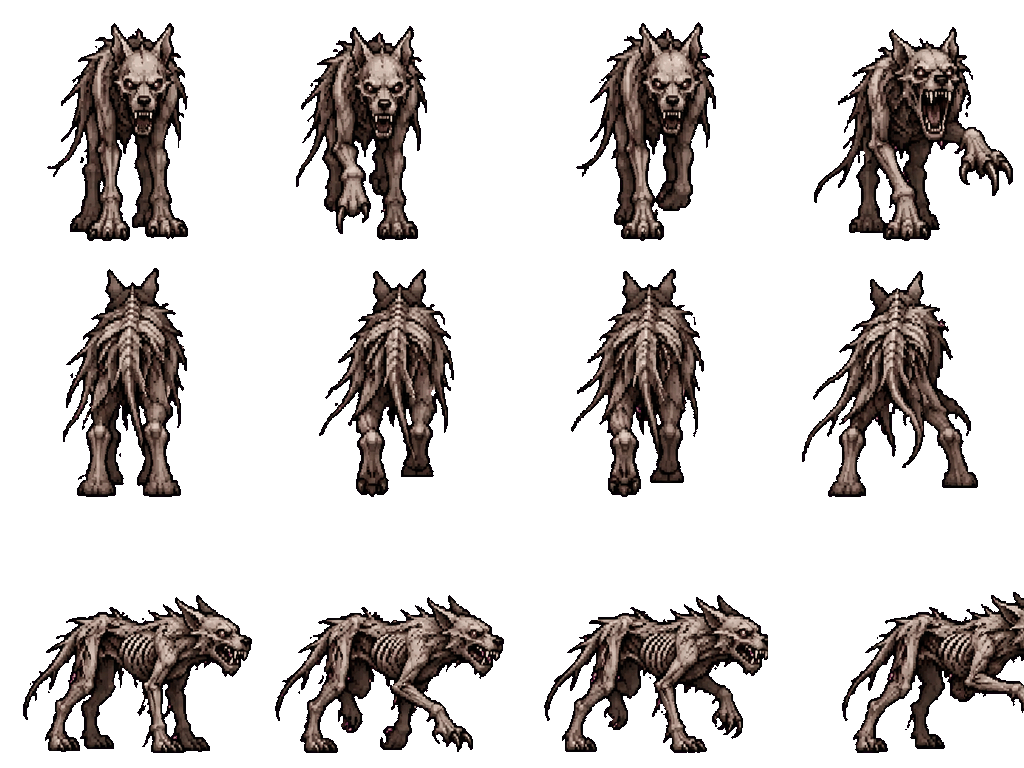
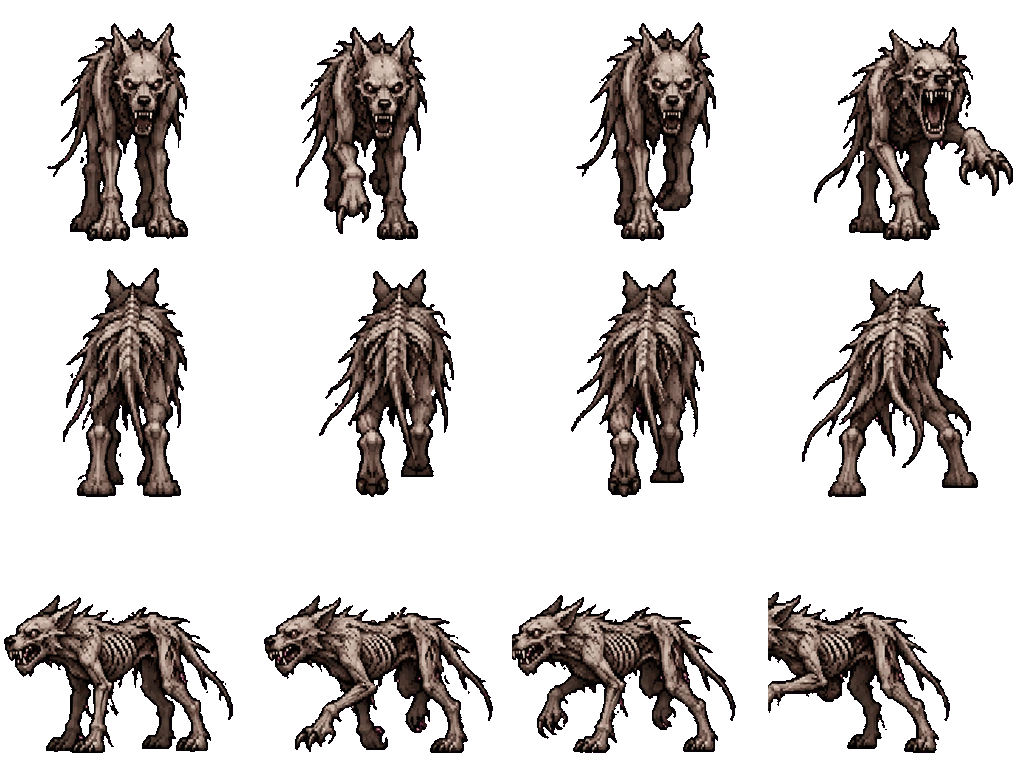
Personajes custom (6 hombres, 6 mujeres) con color de piel, pelo, ropa y pantalón; los de clase fija quedan para ORK; quien ya tenía personaje lo conserva. Hojas nuevas de personajes de mapa y monstruos, sabueso corregido. Contagio: un toque, 2 minutos, al final mitad de vida y muerte; nanocura cura
Claude-Session: https://claude.ai/code/session_01VGCmBo3CsU2Xq1dNwQVK9W

Changed region(s): [[0.0, 0.75, 1.0, 1.0]]

diff --git a/www/cenizas.js b/www/cenizas.js
@@ -105,6 +105,7 @@
   function charSprite(lk, dir, frame, atk) {
     if (HD && lk) { let s = null;
       if (lk.npc) s = HD.sheet(HD.NPC_SHEET[lk.npc] || lk.npc, dir, frame, atk);
+      else if (lk.cu && HD.custom) s = HD.custom(lk, dir, frame, atk);
       else if (lk.pj) s = HD.sheet(lk.pj, dir, frame, atk);
       else if (lk.body != null) s = HD.base(lk.body === 1, lk.model || 0, baseColors(lk), dir, frame, atk);
       if (s) return s; }
@@ -261,8 +262,8 @@
     lanzallamas: { n: 'Lanzallamas', t: 'Arma de fuego · muy rara', d: 'Escupe fuego de cerca: quema todo lo que tenga adelante. 30 segundos de fuego.', eq: 'arma', uses: 250 },
     metralleta: { n: 'Metralleta', t: 'Arma de fuego · rara', d: 'Ráfaga rápida a distancia. 60 tiros.', eq: 'arma', uses: 60 },
     trampa: { n: 'Trampa', t: 'Objeto · se coloca', d: 'La dejás en el piso. El otro bando no la ve (sólo una marquita). Al pisarla queda frenado y lastimado; a los Oscuros los aturde. Dura 4 minutos.', use: 'trampa' },
-    jeringa: { n: 'Jeringa de nanocura', t: 'Consumible · contagio', d: 'Baja el contagio de los Oscuros a la mitad (-50) y lo frena 45 segundos.', use: 'jeringa', v: 50, imm: 45 },
-    jeringa_max: { n: 'Jeringa de nanomoléculas', t: 'Consumible · contagio · rara', d: 'Te limpia el contagio por completo, te devuelve 30 de vida y no te contagiás por 2 minutos.', use: 'jeringa', v: 100, imm: 120, hp: 30 },
+    jeringa: { n: 'Jeringa de nanocura', t: 'Consumible · contagio', d: 'Te cura el contagio de los Oscuros por completo. Se vende en la tienda de Rosa (Plaza de Mayo).', use: 'jeringa', v: 100, imm: 8 },
+    jeringa_max: { n: 'Jeringa de nanomoléculas', t: 'Consumible · contagio · rara', d: 'Te cura el contagio por completo, te devuelve 30 de vida y no te contagiás por 2 minutos.', use: 'jeringa', v: 100, imm: 120, hp: 30 },
     antiveneno: { n: 'Antiveneno', t: 'Consumible', d: 'Cura el envenenamiento (insectos y babosas te envenenan).', use: 'antiveneno' },
     venda_q: { n: 'Venda para quemaduras', t: 'Consumible', d: 'Cura el estado QUEMADO (el Incinerario te prende fuego) y te da 15 de vida.', use: 'vendaq' },
     brz_jefe: { n: 'Brazalete de Yuki', t: 'Brazalete · único · PvP', d: 'Lo deja Yuki cuando la derrotás. Al activarlo tenés poder de jefe por 60 segundos: el doble de vida, recibís la mitad de daño y pegás 60% más.', use: 'jefe' },
@@ -597,11 +598,13 @@
     const cre = $('#cre'); cre.hidden = false; let rot = 0; const dirs = ['d', 'l', 'u', 'r'];
     if (me.faction === 'ork' && look.cls == null) look.cls = 0;
     const box = $('#opts');
+    const orig = Object.assign({}, look);
     function rows() { box.querySelectorAll('.opt,.perk').forEach(e => e.remove());
-      const ork = me.faction === 'ork', list = HD ? HD.roster(look.body === 1, ork) : [];
-      if (HD) { let ix = HD.rosterIdx(list, look); if (look.pj && !list.some(r => r.k === look.pj)) ix = 0; HD.pickPj(look, list[ix]); look.pjI = ix; }
-      const cur = HD ? list[look.pjI] : null, fixed = cur && cur.cls != null;
+      const ork = me.faction === 'ork', list = HD ? HD.roster(look.body === 1, ork, orig) : [];
+      if (HD) { const ix = HD.rosterIdx(list, look); HD.pickPj(look, list[ix]); look.pjI = ix; }
+      const cur = HD ? list[look.pjI] : null, fixed = cur && cur.cls != null, P_ = HD && HD.CPAL, nm = a => a.map(x => x[0]);
       const opts = [['CUERPO', 'body', () => BODY], ['PERSONAJE', 'pjI', () => list.map(r => r.nm)]];
+      if (look.cu && P_) opts.push(['PIEL', 'cs', () => nm(P_.piel)], ['PELO', 'ch', () => nm(P_.pelo)], ['ROPA', 'ct', () => nm(P_.ropa)], ['PANTALÓN', 'cp', () => nm(P_.pant)]);
       if (ork) opts.push(['CLASE', 'cls', () => OCLS, fixed]);
       if (mySkins.length) opts.unshift(['ESPECIAL', 'npcI', () => ['Ninguno'].concat(mySkins.map(k => skinName(k)))]);
       look.npcI = look.npc ? mySkins.indexOf(look.npc) + 1 : 0;
@@ -609,10 +612,11 @@
       opts.forEach(([lab, k, lf, lock]) => { const L = lf(); const r = document.createElement('div'); r.className = 'opt';
         r.innerHTML = '<span>' + lab + '</span><button aria-label="anterior">‹</button><b></b><button aria-label="siguiente">›</button>';
         const bb = r.querySelector('b'); bb.textContent = L[look[k] || 0] || L[0];
+        if (P_ && ['cs', 'ch', 'ct', 'cp'].includes(k)) { const pal = { cs: P_.piel, ch: P_.pelo, ct: P_.ropa, cp: P_.pant }[k]; bb.style.borderLeft = '14px solid ' + (pal[look[k] || 0] || pal[0])[1]; bb.style.paddingLeft = '6px'; }
         if (lock) { r.children[1].disabled = r.children[3].disabled = true; r.classList.add('lock'); bb.textContent += ' · fija'; }
         const ch_ = dv => { look[k] = ((look[k] || 0) + dv + L.length) % L.length;
           if (k === 'npcI') { if (look.npcI) look.npc = mySkins[look.npcI - 1]; else delete look.npc; }
-          if (k === 'body') { delete look.pj; delete look.model; }
+          if (k === 'body') { delete look.pj; delete look.model; delete look.cu; }
           if (k === 'pjI') { HD.pickPj(look, list[look.pjI]); if (list[look.pjI].cls == null && cur && cur.cls != null) look.cls = 0; }
           rows(); draw(); };
         r.children[1].onclick = () => ch_(-1); r.children[3].onclick = () => ch_(1); box.insertBefore(r, first); });
@@ -714,7 +718,7 @@
   function drawAv() { const cv = $('#h-av'); if (!cv || !look) return; const g = cv.getContext('2d'); g.clearRect(0, 0, 96, 128); let spr = null; try { spr = charSprite(look, 'd', 0, false); } catch (e) {} if (!spr) return; if (spr.hd) { g.imageSmoothingEnabled = true; g.drawImage(spr, 58, 22, 140, 186, 0, 0, 96, 128); } else { g.imageSmoothingEnabled = false; g.drawImage(spr, 0, 0, spr.width, spr.height * .7, 6, 6, 84, 116 * .9); } drawAv.ok = spr.hd ? 2 : 1; drawAv.key = JSON.stringify(look); }
   setInterval(() => { if (look && ((drawAv.ok || 0) < 2 || drawAv.key !== JSON.stringify(look))) drawAv(); }, 600); /* el retrato espera a que cargue la planilla */
   function hudCont() { const cb = $('#h-cb'); if (!cb || !INV) return; const v = Math.round(INV.cont || 0), im = (P.inmune || 0) > 0; $('#h-ct').style.width = (v * .678) + '%';
-    const tx = im ? 'INMUNE ' + Math.ceil(P.inmune) + 's' : v ? 'CONTAGIO ' + v + '%' : ''; if ($('#h-ctn').textContent !== tx) $('#h-ctn').textContent = tx;
+    const left = Math.max(0, Math.ceil(120 * (1 - (INV.cont || 0) / 100))), tx = im ? 'INMUNE ' + Math.ceil(P.inmune) + 's' : v ? (P.contFin > 0 ? '☣ TE ESTÁS CONVIRTIENDO' : '☣ CONTAGIADO ' + ((left / 60) | 0) + ':' + String(left % 60).padStart(2, '0')) : ''; if ($('#h-ctn').textContent !== tx) $('#h-ctn').textContent = tx;
     cb.classList.toggle('on', v > 0 || im); cb.classList.toggle('grave', v >= 70); cb.classList.toggle('inm', im); }
   function hud() { hudCont(); if ((drawAv.ok || 0) < 2 && (drawAv.n = (drawAv.n || 0) + 1) < 60 && drawAv.n % 6 === 0) drawAv(); { const nk = $('#h-nick'), t_ = me.nick + '|' + lvlOf(P.xp); if (nk && nk.dataset.v !== t_) { nk.dataset.v = t_; nk.textContent = me.nick; const e_ = document.createElement('em'); e_.textContent = 'NV ' + lvlOf(P.xp); nk.appendChild(e_); } } const lv = lvlOf(P.xp), a = xpFor(lv), b = xpFor(lv + 1); $('#h-hp').style.width = Math.max(0, P.hp / maxHp(lv) * 100) + '%'; $('#h-xp').style.width = (lv >= 100 ? 100 : Math.min(100, (P.xp - a) / (b - a) * 100)) + '%';
     $('#h-lv').textContent = 'NV ' + lv + ' · ' + (INV ? weaponLabel() : 'PALO') + ' · ' + Math.ceil(P.hp) + '/' + maxHp(lv) + (INV && INV.eq.luz ? ' · LUZ ' + Math.ceil(INV.bat) + '%' : '') + (INV && INV.eq.ropa ? ' · ESCUDO ' + (INV.dur[INV.eq.ropa] != null ? INV.dur[INV.eq.ropa] : ITEMS[INV.eq.ropa].shield) : '') + ' · ' + (INV ? INV.coins : 0) + ' monedas' + (INV && INV.ab.length ? ' · ' + INV.ab.map(a => AB[a].n).join(' · ') : '') + (suero.map ? ' · MALETÍN: ' + MAPS[suero.map].name : ''); }
@@ -768,16 +772,19 @@
   function classMult(mk) { if (!mk || me.faction !== 'ork') return 1; let m = .85; const c = (look && look.cls) || 0;
     if ((c === 0 && mk === 'perro') || (c === 1 && mk === 'corredor') || (c === 2 && mk === 'errante')) m *= .6; return m; }
   /* ---------- contagio de los Oscuros: barra 0-100. +30 pierde vida, +70 más rápido. Al morir contagiado queda tu clon Oscuro ---------- */
-  const CONT_MIN = 30;
-  function contagiar(d, fuerte, x) { if ((P.inmune || 0) > 0 || P.dead) return; const was = INV.cont || 0; INV.cont = Math.min(100, was + Math.min(14, 3 + d * .35) * (fuerte ? 1.5 : 1) * (x || 1));
-    if (was < CONT_MIN && INV.cont >= CONT_MIN) toast('☣ Te estás contagiando: perdés vida de a poco. Usá una jeringa.'); else if (was < 70 && INV.cont >= 70) toast('☣ Contagio grave: te estás convirtiendo en Oscuro.'); hud(); }
-  function contTick(dt) { if (P.dead || !INV) return; if (P.inmune > 0) P.inmune -= dt; const cv = INV.cont || 0; if (cv <= 0) return; if (inSafe(P.x, P.y)) return; /* en zona segura el contagio se frena (no baja) */
-    if (cv >= CONT_MIN && !(P.inmune > 0)) INV.cont = Math.min(100, cv + dt * .6); /* sin cura, sube solo hasta 100 */
-    if (cv < CONT_MIN || P.inmune > 0) return; P.contT = (P.contT || 0) + dt; if (cv >= 70) P.slow = Math.max(P.slow || 0, .5);
-    /* contagiado: sin cura te mata en ~2 minutos (le saca 1/120 de la vida máxima por segundo) */
-    if (P.contT >= 1) { P.contT = 0; const dd = Math.max(1, Math.round(maxHp(lvlOf(P.xp)) / 120)); P.hp -= dd; floats.push({ x: P.x, y: P.y - 200, t: .7, txt: '☣ -' + dd, c: '#c070ff' });
-      if (Math.random() < .5) parts.push({ x: P.x + rnd(-16, 16), y: P.y - rnd(40, 160), vx: 0, vy: -26, life: .8, s: 3, c: 270 }); hud(); if (P.hp <= 0) { P.hp = 1; hitPlayer(999, null, 0, null, 'contagio'); } } }
-  function dejarClon() { const lk = {}; ['pj', 'npc', 'body', 'model', 'cls'].forEach(k => { if (look && look[k] != null) lk[k] = look[k]; });
+  /* contagio: un toque de un Oscuro y quedás contagiado (INV.cont = % de los 2 minutos que pasaron). Más golpes no lo aceleran.
+     A los 2 minutos sin jeringa: si tenés más de la mitad de la vida te baja a la mitad y a los segundos morís; si ya tenías la mitad o menos, morís en el acto. */
+  const CONT_MIN = 0.01, CONT_SEG = 120, CONT_FIN = 4;
+  function contagiar(fuerte) { if ((P.inmune || 0) > 0 || P.dead || (INV.cont || 0) > 0) return; INV.cont = fuerte ? 50 : 0.5; P.contFin = 0; toast(fuerte ? '☣ Te contagió un Contagiado: tenés 1 minuto para usar una jeringa.' : '☣ Te contagiaste. Tenés 2 minutos para usar una jeringa.'); buzz([60, 40, 60]); hud(); }
+  function contTick(dt) { if (P.dead || !INV) return; if (P.inmune > 0) P.inmune -= dt; const cv = INV.cont || 0; if (cv <= 0) return;
+    if (inSafe(P.x, P.y) && !(P.contFin > 0)) return; /* en zona segura la cuenta se frena */
+    if (P.contFin > 0) { P.contFin -= dt; if (Math.random() < dt * 6) parts.push({ x: P.x + rnd(-16, 16), y: P.y - rnd(40, 160), vx: 0, vy: -26, life: .8, s: 3, c: 270 }); if (P.contFin <= 0) { P.hp = 1; hitPlayer(999, null, 0, null, 'contagio'); } return; }
+    const was = cv; INV.cont = Math.min(100, cv + dt * 100 / CONT_SEG);
+    if (was < 50 && INV.cont >= 50) toast('☣ Te queda 1 minuto de contagio.'); else if (was < 84 && INV.cont >= 84) toast('☣ ¡20 segundos! Usá una jeringa.');
+    if (INV.cont >= 100) { const mx = maxHp(lvlOf(P.xp)); P.slow = Math.max(P.slow || 0, 1);
+      if (P.hp > mx / 2) { P.hp = Math.floor(mx / 2); P.contFin = CONT_FIN; floats.push({ x: P.x, y: P.y - 200, t: 1.2, txt: '☣ EL CONTAGIO TE CONSUME', c: '#c070ff' }); buzz([200, 80, 200]); hud(); }
+      else { P.hp = 1; hitPlayer(999, null, 0, null, 'contagio'); } } }
+  function dejarClon() { const lk = {}; ['pj', 'npc', 'body', 'model', 'cls', 'cu', 'cs', 'ch', 'ct', 'cp', 'skin', 'hair', 'hcol', 'top', 'pant', 'fac'].forEach(k => { if (look && look[k] != null) lk[k] = look[k]; });
     /* el clon se lleva una cosa de tu mochila (no lo equipado) y la suelta si lo matan */
     const bag = Object.keys(INV.items || {}).filter(k => INV.items[k] > 0 && ITEMS[k] && !ITEMS[k].epic && k !== 'suero' && !Object.values(INV.eq).includes(k)); let drop = null;
     if (bag.length) { drop = bag[(Math.random() * bag.length) | 0]; INV.items[drop]--; if (!INV.items[drop]) delete INV.items[drop]; }
@@ -785,7 +792,7 @@
   function spawnClon(p) { const o = spawnMob('clon', 0, [p.x, p.y]); if (!o) return; o.cl = p.cl; o.cn = p.cn; o.drop = p.drop; o.alpha = 1; needFull = true; }
   function hitPlayer(d, knockFrom, knock, byId, mk) { if (P.dead || P.inv > 0 || P.furia > 0 || (!byId && inSafe(P.x, P.y))) return false;
     if (!byId && mk && d < 999 && MOB[mk]) { if (MOB[mk].burn && !(P.burn > 0)) { P.burn = 5; toast('¡Te prendiste fuego! 5 segundos de quemadura (la venda para quemaduras lo corta).'); } if (MOB[mk].poison && !(P.poison > 0)) { P.poison = 25; toast('Te envenenaron. Usá antiveneno.'); } }
-    if (!byId && mk && d < 999 && MOB[mk] && !MOB[mk].passive && !MOB[mk].npc) contagiar(d, MOB[mk].boss || MOB[mk].mvp, MOB[mk].cont);
+    if (!byId && mk && d < 999 && MOB[mk] && !MOB[mk].passive && !MOB[mk].npc) contagiar(MOB[mk].cont);
     if (P.goo > 0) d *= 2; if (P.stunT > 0 && mk && MOB[mk] && MOB[mk].mvp) d *= 2.5;
     if (mk && MOB[mk] && MOB[mk].pois5 && d < 999) { P.poison = Math.max(P.poison || 0, 5); P.poisonK = MOB[mk].pois5; }
     d = Math.max(1, Math.round(d * dmgMult() * classMult(mk || (knockFrom && knockFrom.kind) || (byId ? null : 'oscuro'))));
@@ -864,8 +871,8 @@
     if (a === 'use' && it.use === 'descuento') { INV.items[k]--; if (!INV.items[k]) delete INV.items[k]; INV.descT = Date.now() + 600000; toast('Credencial mostrada: 10 minutos con 30% de descuento en las tiendas.'); renderInv(); persist(); return; }
     if (a === 'use' && it.use === 'volver') { INV.items[k]--; if (!INV.items[k]) delete INV.items[k]; closeInv(); const [hz, hp_] = home(); toast('El fragmento se parte. Todo se dobla…'); warpTo(hz, hp_[0], hp_[1]); persist(); return; }
     if (a === 'use' && it.use === 'trampa') { if (EXP && MAP.safeAll || inSafe(P.x, P.y)) return toast('Acá no se pueden poner trampas.'); INV.items[k]--; if (!INV.items[k]) delete INV.items[k]; const tp = { m: mapKey, id: me.id.slice(0, 4) + Date.now().toString(36), x: Math.round(P.x), y: Math.round(P.y), fac: me.faction, by: me.id, t: Date.now() }; ptraps.push(tp); net('trap', tp); SND.pick(); toast('Trampa puesta. El otro bando sólo ve una marquita.'); closeInv(); persist(); return; }
-    if (a === 'use' && it.use === 'jeringa') { if (!(INV.cont > 0) && !it.hp) return toast('No estás contagiado. Guardala.'); INV.items[k]--; if (!INV.items[k]) delete INV.items[k]; INV.cont = Math.max(0, (INV.cont || 0) - it.v); P.inmune = Math.max(P.inmune || 0, it.imm); if (it.hp) P.hp = Math.min(maxHp(lvlOf(P.xp)), P.hp + it.hp); SND.pick(); buzz(30);
-      toast(INV.cont > 0 ? 'El contagio bajó al ' + Math.round(INV.cont) + '%. Frenado por ' + it.imm + ' s.' : 'Contagio limpio. No te contagiás por ' + (it.imm >= 120 ? '2 minutos' : it.imm + ' segundos') + '.'); hud(); renderInv(); quickBtns(); persist(); return; }
+    if (a === 'use' && it.use === 'jeringa') { if (!(INV.cont > 0) && !it.hp) return toast('No estás contagiado. Guardala.'); INV.items[k]--; if (!INV.items[k]) delete INV.items[k]; INV.cont = 0; P.contFin = 0; P.inmune = Math.max(P.inmune || 0, it.imm); if (it.hp) P.hp = Math.min(maxHp(lvlOf(P.xp)), P.hp + it.hp); SND.pick(); buzz(30);
+      toast('Contagio curado.' + (it.imm >= 120 ? ' No te contagiás por 2 minutos.' : '')); hud(); renderInv(); quickBtns(); persist(); return; }
     if (a === 'use' && it.use === 'antiveneno') { if (!(P.poison > 0)) return toast('No estás envenenado. Guardalo.'); INV.items[k]--; if (!INV.items[k]) delete INV.items[k]; P.poison = 0; SND.pick(); toast('El veneno se cortó.'); hud(); renderInv(); quickBtns(); persist(); return; }
     if (a === 'use' && it.use === 'vendaq') { if (!(P.burn > 0) && P.hp >= maxHp(lv)) return toast('No estás quemado. Guardala.'); INV.items[k]--; if (!INV.items[k]) delete INV.items[k]; P.burn = 0; P.hp = Math.min(maxHp(lv), P.hp + 15); SND.pick(); toast('Venda para quemaduras: se apagó el ardor.'); hud(); renderInv(); quickBtns(); persist(); return; }
     if (a === 'use' && it.use === 'forzar') { const cz = nearCasillero(); if (!cz) return toast('Usalas al lado de un CASILLERO (hay en algunos mapas, bien escondidos).'); if (cz.open) return toast('Ese casillero ya lo abriste hoy.'); INV.cas = INV.cas || {}; INV.cas[cz.id] = dayN(); INV.items[k]--; if (!INV.items[k]) delete INV.items[k]; addItem('vendas', 3); const jx = Math.random() < .25 ? 'jeringa_max' : 'jeringa'; addItem(jx); const x_ = pickW([['chaleco_t', 1.4], ['armadura', 1.2], ['katana', 1], ['escopeta', 1], ['metralleta', .8], ['lanzallamas', .4]]); addItem(x_); SND.pick(); toast('¡Casillero forzado! 3 vendas, ' + ITEMS[jx].n + ' y ' + ITEMS[x_].n + '.'); renderInv(); quickBtns(); persist(); return; }
@@ -1071,7 +1078,7 @@
   function revive(id) { if (!hasItem('suero') && !hasItem('kit')) return toast('Para revivir necesitás un maletín de curación total o un kit de curación.'); const k = hasItem('suero') ? 'suero' : 'kit'; INV.items[k]--; if (!INV.items[k]) delete INV.items[k]; if (k === 'suero') sueroTaken();
     net('revive', { to: id, by: me.nick }); SND.level(); toast('Lo reviviste.'); persist(); quickBtns(); }
   /* al morir quedás limpio: sin veneno, fuego, lentitud, aturdimiento ni habilidades */
-  function cleanse(lostAb) { if (INV) INV.cont = 0; P.inmune = 0; P.poison = 0; P.poisonK = 0; P.burn = 0; P.slow = 0; P.stunT = 0; P.goo = 0; P.regen = null; P.fast = 0; P.potion = 0; P.furia = 0; P.jefe = 0; P.smoke = 0; P.gorro = 0; P.ghost = 0; P.clone = null;
+  function cleanse(lostAb) { if (INV) INV.cont = 0; P.inmune = 0; P.contFin = 0; P.poison = 0; P.poisonK = 0; P.burn = 0; P.slow = 0; P.stunT = 0; P.goo = 0; P.regen = null; P.fast = 0; P.potion = 0; P.furia = 0; P.jefe = 0; P.smoke = 0; P.gorro = 0; P.ghost = 0; P.clone = null;
     if (lostAb && INV && INV.ab && INV.ab.length) { const had = INV.ab.map(a => AB[a] ? AB[a].n : a).join(', '); INV.ab = []; try { abButtons(); } catch (e) {} setTimeout(() => toast('Perdiste tus habilidades: ' + had + '.'), 1200); } }
   function gotRevived(by) { cleanse(false); if (!P.dead) return; P.dead = false; P.hp = Math.round(maxHp(lvlOf(P.xp)) * .5); P.inv = 3; $('#ov-dead').hidden = true; SND.level(); banner('TE REVIVIERON', by, 1800, '#9fe0b0'); hud(); sendPos(true); }
   function mvpDraw(c, W2S, zoom, t) { if (!MAP || !MAP.mvp) return;
@@ -1430,7 +1437,7 @@
   $('#btn-x').addEventListener('pointerdown', e => { e.preventDefault(); goGhost(); });
   /* tienda de Plaza de Mayo */
   const SHOP = [['kit', 100, 'Vida completa'], ['vendas', 3, 'Cura el 22% de tu vida (3 s)'], ['pilas', 2, 'Recargan la linterna'], ['lanza', 8, 'Llega lejos y atraviesa · 30 golpes'], ['kitsune', 10, 'Desaparecés 3 segundos · 2 usos'], ['ganzuas', 6, 'Abren un casillero · se gastan']];
-  let curShop = null; function openShop(n) { if (!n || !n.nm) n = npcsHere().find(x => x.act === 'shop' || x.shop); if (!n || P.dead) return; curShop = (n.shop ? n.shop.map(([k, p]) => [k, p, ITEMS[k].d]) : SHOP.slice()); [['venda_q', 6], ['antiveneno', 6], ['trampa', 12], ['fragmento', 45], ['balas', 6], ['cart_itaka', 9], ['cargador', 14], ['virotes', 8], ['molotov', 15], ['vendas_a', 8]].concat(n.shop && n.shop.some(([k]) => ITEMS[k] && ITEMS[k].eq === 'arma' && WEAP[k] && WEAP[k].gun) ? [['metralleta', 110]] : []).forEach(([k, p]) => { if (!curShop.some(r => r[0] === k)) curShop.push([k, p, ITEMS[k].d]); });
+  let curShop = null; function openShop(n) { if (!n || !n.nm) n = npcsHere().find(x => x.act === 'shop' || x.shop); if (!n || P.dead) return; curShop = (n.shop ? n.shop.map(([k, p]) => [k, p, ITEMS[k].d]) : SHOP.slice()); [['venda_q', 6], ['antiveneno', 6], ['trampa', 12], ['fragmento', 45], ['balas', 6], ['cart_itaka', 9], ['cargador', 14], ['virotes', 8], ['molotov', 15], ['vendas_a', 8]].concat(n.k === 'rosa' ? [['jeringa', 30]] : []).concat(n.shop && n.shop.some(([k]) => ITEMS[k] && ITEMS[k].eq === 'arma' && WEAP[k] && WEAP[k].gun) ? [['metralleta', 110]] : []).forEach(([k, p]) => { if (!curShop.some(r => r[0] === k)) curShop.push([k, p, ITEMS[k].d]); });
     $('#ov-shop h2').textContent = n.nm; $('#ov-shop p i').textContent = '"' + n.line + '"'; paused = true; $('#ov-shop').hidden = false; renderShop(); }
   const SELL = { metralleta: 20, trampa: 5, antiveneno: 3, venda_q: 3, pagina: 4, cigarrillo: 3, credencial: 6, receptor: 8, ganzuas: 6, filtro: 5, fragmento: 15, pista: 3, manzana: 2, pilas: 1, tarjeta: 10, expediente: 10, fusible: 4, radio: 6, cartucho: 10, canister: 10, contenedor: 8, energia: 8, mascara: 8, b_contencion: 12, b_resonancia: 12, campera: 5, chaleco: 10, armadura: 18, linterna: 4, cuchillo: 3, bate: 4, barra: 3, lanza: 6, pistola: 8, katana: 10, escopeta: 14, lanzallamas: 18, pista_ork: 4, pista_reb: 4 };
   const disc = () => (INV.descT || 0) > Date.now() ? .7 : 1;

diff --git a/www/cenizas-sheets.js b/www/cenizas-sheets.js
@@ -44,18 +44,32 @@
   const ALL = ["agente_patrulla_ork", "ani", "anita", "anixa", "arshi", "azu", "bong", "carolina", "cin", "civil_anciano", "civil_hombre", "civil_m", "civil_mujer", "civil_nene", "civil_trabajador", "claudia", "corredor_final", "corredor_incinerario", "cyn", "dario", "ding", "doctor_ork", "el_sabio", "espectro", "ex01", "ex02", "ex03", "ex04", "ex05", "ex06", "ex07", "ex08", "ex09", "ex10", "ex11", "ex12", "ex13", "ex14", "ex15", "ex16", "ex17", "ex18", "ex19", "ex20", "ex21", "ex22", "ex23", "ex24", "ex25", "ex26", "ex27", "ex28", "ex29", "ex30", "ex31", "ex32", "ex33", "ex34", "ex35", "ex36", "ex37", "ex38", "ex39", "ex40", "ex41", "eze", "gato", "giuliana", "gusty", "ignacio", "instructor_ork", "irene", "jaqui", "jem", "joaco", "jota", "jota_viejo", "julieta", "kamikaze", "laura", "le_cape", "lean", "leti", "lilia", "lucas", "lucas_hermano", "luis", "mariano", "mariela", "marta", "mary_futuro", "maxi", "mercedes", "mole", "natsume", "norbert", "oficial_ork", "oscuro_hombre", "oscuro_mujer", "pablo_1", "pablo_2", "pablo_3", "pablo_4", "pablo_futuro", "f_aventurera", "f_mecanica", "f_rubia", "f_urbana", "f_cientifica", "f_medica", "f_medica2", "f_hacker", "f_hacker2", "f_oficinista", "h_barbudo", "h_periodista", "h_rockero", "h_picaro", "h_explorador", "h_panuelo", "h_poncho", "h_soldado", "h_mercenario", "h_guerrero", "h_cientifico", "h_espia", "pol_alter", "pol_futuro", "raul", "renzo", "rocio", "romina", "rosa", "ruben", "sabueso", "sam", "sasha", "sel01", "sel02", "sel03", "sel04", "sel05", "sel07", "sel08", "sel09", "sel11", "sel12", "sel13", "sel14", "sel15", "sel16", "sel17", "sel18", "sel20", "sel21", "sel22", "sel23", "sel24", "sel25", "sel26", "sel27", "sel29", "sel31", "sel34", "sel35", "sofia_buena", "sofia_mala", "teby", "tecnico_ork", "tincho", "toby", "tomy", "vanesa", "viajero", "yuki"];
   /* ROSTER: personajes para elegir. cls = clase ORK fija (0 militar · 1 científico · 2 espía) → esos son solo de ORK.
      model = personaje base (sin teñir a mano). */
-  const ROSTER = {
-    m: [['f_aventurera', 'Pelirroja'], ['f_mecanica', 'Mecánica'], ['f_rubia', 'Rubia'], ['f_urbana', 'Urbana'],
-      ['f_cientifica', 'Científica', 1], ['f_medica', 'Médica', 1], ['f_medica2', 'Enfermera', 1], ['f_hacker', 'Hacker', 2], ['f_hacker2', 'Hacker de radio', 2], ['f_oficinista', 'Oficinista', 2],
-      ['', 'Clásica 1', null, 0], ['', 'Clásica 2', null, 1]],
-    h: [['h_barbudo', 'Barbudo'], ['h_periodista', 'Periodista'], ['h_rockero', 'Rockero'], ['h_picaro', 'Pícaro'], ['h_explorador', 'Explorador'], ['h_panuelo', 'Pañuelo rojo'], ['h_poncho', 'Poncho'],
-      ['h_soldado', 'Soldado', 0], ['h_mercenario', 'Mercenario', 0], ['h_guerrero', 'Guerrero', 0], ['h_cientifico', 'Científico', 1], ['h_espia', 'Espía', 2]]
-      .concat(SEL.map((k, i) => [k, 'Sobreviviente ' + (i + 1)]), [['', 'Clásico 1', null, 0], ['', 'Clásico 2', null, 1]])
+  /* PERSONAJES CUSTOM: 6 hombres y 6 mujeres a los que se les cambia el color de piel, pelo, ropa y pantalón */
+  const CU = { h: [1, 2, 3, 4, 5, 6].map(i => 'cu_h' + i), m: [1, 2, 3, 4, 5, 6].map(i => 'cu_m' + i) };
+  const CPAL = {
+    piel: [['Clara', '#f2c9a4'], ['Trigueña', '#e0a878'], ['Morena', '#b9825a'], ['Oscura', '#8a5a3c'], ['Muy oscura', '#5e3c28'], ['Pálida', '#f6dccb']],
+    pelo: [['Castaño', '#6b4128'], ['Negro', '#2a2523'], ['Castaño claro', '#9a6a42'], ['Rubio', '#d9b25a'], ['Colorado', '#b5482a'], ['Gris', '#8e8a86'], ['Blanco', '#e2ded8'], ['Azul', '#3a62c8'], ['Verde', '#3f9a52'], ['Rosa', '#d86aa0'], ['Violeta', '#7a4ac0']],
+    ropa: [['Gris', '#5d5e58'], ['Negro', '#2b2c2e'], ['Blanco', '#d8d6d0'], ['Rojo', '#a8352e'], ['Azul', '#2f5aa0'], ['Verde', '#3f7a46'], ['Oliva', '#6a6a3c'], ['Bordó', '#6e2432'], ['Mostaza', '#c09a3a'], ['Celeste', '#6aa8d0'], ['Naranja', '#d0702e']],
+    pant: [['Jean', '#6a7e98'], ['Jean oscuro', '#3a4a66'], ['Negro', '#2a2a2c'], ['Gris', '#6e6e6e'], ['Beige', '#b9a47e'], ['Verde militar', '#4f5a3a'], ['Marrón', '#6a4a32'], ['Bordó', '#5e2430']]
   };
-  /* lista que ve cada uno: los de clase fija solo para ORK */
-  const roster = (fem, ork) => ROSTER[fem ? 'm' : 'h'].filter(r => ork || r[2] == null).map(([k, nm, cls, model]) => ({ k, nm, cls: cls == null ? null : cls, model: model == null ? null : model }));
-  const rosterIdx = (list, lk) => Math.max(0, list.findIndex(r => r.k ? r.k === lk.pj : (!lk.pj && lk.model != null && r.model === lk.model)));
-  /* aplica la elección al look: personaje, clase fija y limpia lo viejo de colores */
-  function pickPj(lk, r) { if (r.k) { lk.pj = r.k; delete lk.model; } else { delete lk.pj; lk.model = r.model; } if (r.cls != null) lk.cls = r.cls; ['skin', 'hair', 'hcol', 'top', 'acc', 'pant'].forEach(k => delete lk[k]); return lk; }
-  window.CZ_SHEETS = { ROSTER, roster, rosterIdx, pickPj, SEL, CELL, MODELS, ALL, NPC_SHEET, MOB_SHEET, sheet, base, blit, load };
+  /* colores del custom en el orden de las partes del _reg: pelo, piel, ropa, pantalón, calzado */
+  const cuColors = lk => [(CPAL.pelo[lk.ch || 0] || CPAL.pelo[0])[1], (CPAL.piel[lk.cs || 0] || CPAL.piel[0])[1], (CPAL.ropa[lk.ct || 0] || CPAL.ropa[0])[1], (CPAL.pant[lk.cp || 0] || CPAL.pant[0])[1], null];
+  const custom = (lk, dir, frame, atk) => { const l = CU[lk.body === 1 ? 'm' : 'h'], s = tinted(l[(lk.cu || 1) - 1] || l[0], cuColors(lk)); return s ? cut(s, dir || 'd', atk ? 3 : (frame || 0), s.key) : null; };
+  /* ROSTER: customs para todos + los de clase fija solo para ORK (0 militar · 1 científico · 2 espía) */
+  const ROSTER = {
+    m: [1, 2, 3, 4, 5, 6].map(i => ['', 'Custom ' + i, null, null, i]).concat([['f_cientifica', 'Científica', 1], ['f_medica', 'Médica', 1], ['f_medica2', 'Enfermera', 1], ['f_hacker', 'Hacker', 2], ['f_hacker2', 'Hacker de radio', 2], ['f_oficinista', 'Oficinista', 2]]),
+    h: [1, 2, 3, 4, 5, 6].map(i => ['', 'Custom ' + i, null, null, i]).concat([['h_soldado', 'Soldado', 0], ['h_mercenario', 'Mercenario', 0], ['h_guerrero', 'Guerrero', 0], ['h_cientifico', 'Científico', 1], ['h_espia', 'Espía', 2]])
+  };
+  /* lista que ve cada uno. Si ya tenía un personaje que salió de la lista, se le deja como "Tu personaje" */
+  const inRoster = (lk, ork) => lk.cu ? true : roster(lk.body === 1, ork).some(r => r.k && r.k === lk.pj);
+  const roster = (fem, ork, lk) => { const l = ROSTER[fem ? 'm' : 'h'].filter(r => ork || r[2] == null).map(([k, nm, cls, model, cu]) => ({ k, nm, cls: cls == null ? null : cls, model: model == null ? null : model, cu: cu || null }));
+    if (lk && (lk.body === 1) === fem && !lk.cu && (lk.pj || lk.model != null) && !l.some(r => r.k && r.k === lk.pj)) l.unshift({ keep: { pj: lk.pj, model: lk.model, skin: lk.skin, hair: lk.hair, hcol: lk.hcol, top: lk.top, acc: lk.acc, pant: lk.pant }, nm: 'Tu personaje', cls: null });
+    return l; };
+  const rosterIdx = (list, lk) => Math.max(0, list.findIndex(r => r.keep ? !lk.cu && (r.keep.pj ? r.keep.pj === lk.pj : lk.model === r.keep.model && !lk.pj) : r.cu ? lk.cu === r.cu : r.k === lk.pj));
+  function pickPj(lk, r) {
+    if (r.keep) { delete lk.cu; Object.entries(r.keep).forEach(([k, v]) => { if (v == null) delete lk[k]; else lk[k] = v; }); return lk; }
+    if (r.cu) { lk.cu = r.cu; delete lk.pj; delete lk.model; ['cs', 'ch', 'ct', 'cp'].forEach(k => { if (lk[k] == null) lk[k] = 0; }); }
+    else { lk.pj = r.k; delete lk.cu; delete lk.model; }
+    if (r.cls != null) lk.cls = r.cls; ['skin', 'hair', 'hcol', 'top', 'acc', 'pant'].forEach(k => delete lk[k]); return lk; }
+  window.CZ_SHEETS = { ROSTER, roster, rosterIdx, pickPj, inRoster, CU, CPAL, custom, cuColors, SEL, CELL, MODELS, ALL, NPC_SHEET, MOB_SHEET, sheet, base, blit, load };
 })();

diff --git a/www/app.js b/www/app.js
@@ -640,7 +640,7 @@
     const lk = avLook || (gchar && gchar.look); if (!lk || lk.body == null) { g.fillStyle = '#3c3c3c'; g.fillRect(W * .37, H * .19, W * .25, H * .19); g.fillRect(W * .29, H * .4, W * .42, H * .47); return; }
     const npc = lk.npc && avSkins.includes(lk.npc), dir = AVD[avRot];
     if (HD) { const A = THEOF_AV, fac = me.faction === 'ork' ? 'ork' : 'rebel', cls = fac === 'ork' ? (lk.cls || 0) : -1, top = cls >= 0 ? (A.OTOPS[cls][lk.top] || A.OTOPS[cls][0]) : (A.TOPS[fac][lk.top] || A.TOPS[fac][0]);
-      const spr = npc ? HD.sheet(HD.NPC_SHEET[lk.npc] || lk.npc, dir, avFrame, false) : lk.pj ? HD.sheet(lk.pj, dir, avFrame, false) : HD.base(lk.body === 1, lk.model || 0, [(HCOL6[lk.hcol] || HCOL6[1])[1], A.SKIN[lk.skin] || A.SKIN[1], top[1], (PANTC[lk.pant] || PANTC[0])[1], null], dir, avFrame, false);
+      const spr = npc ? HD.sheet(HD.NPC_SHEET[lk.npc] || lk.npc, dir, avFrame, false) : (lk.cu && HD.custom) ? HD.custom(lk, dir, avFrame, false) : lk.pj ? HD.sheet(lk.pj, dir, avFrame, false) : HD.base(lk.body === 1, lk.model || 0, [(HCOL6[lk.hcol] || HCOL6[1])[1], A.SKIN[lk.skin] || A.SKIN[1], top[1], (PANTC[lk.pant] || PANTC[0])[1], null], dir, avFrame, false);
       if (spr) { HD.blit(g, spr, W / 2, H - 4, H * .86); return; } setTimeout(drawAv, 400); }
     g.imageSmoothingEnabled = false; g.drawImage(npc && window.CZ_NPC && CZ_NPC.C[lk.npc] ? CZ_NPC.draw(lk.npc, dir, avFrame) : THEOF_AV.sprite(Object.assign({}, lk, { fac: me.faction }), dir, avFrame, false), W * .125, H * .125, W * .75, H * .81); }
   /* skins: Pablo y Pol son de una cuenta; Renzo y Sam se ganan matando a Mercedes */
@@ -658,18 +658,21 @@
   $('#av-open').onclick = () => { const A = THEOF_AV; avLook = Object.assign({ body: 0 }, gchar && gchar.look && gchar.look.body != null ? gchar.look : {}, { fac: me.faction }); delete avLook.char;
     const ork = me.faction === 'ork'; if (ork && avLook.cls == null) avLook.cls = 0;
     const box = $('#av-opts');
-    const build = () => { box.innerHTML = ''; const H = window.CZ_SHEETS, list = H ? H.roster(avLook.body === 1, ork) : [];
-      if (H) { let ix = H.rosterIdx(list, avLook); if (avLook.pj && !list.some(r => r.k === avLook.pj)) ix = 0; H.pickPj(avLook, list[ix]); avLook.pjI = ix; }
-      const cur = H ? list[avLook.pjI] : null, fixed = cur && cur.cls != null;
+    const avOrig = Object.assign({}, avLook);
+    const build = () => { box.innerHTML = ''; const H = window.CZ_SHEETS, list = H ? H.roster(avLook.body === 1, ork, avOrig) : [];
+      if (H) { const ix = H.rosterIdx(list, avLook); H.pickPj(avLook, list[ix]); avLook.pjI = ix; }
+      const cur = H ? list[avLook.pjI] : null, fixed = cur && cur.cls != null, P_ = H && H.CPAL, nm = a => a.map(x => x[0]);
       const opts = [['CUERPO', 'body', A.BODY], ['PERSONAJE', 'pjI', list.map(r => r.nm)]];
+      if (avLook.cu && P_) opts.push(['PIEL', 'cs', nm(P_.piel)], ['PELO', 'ch', nm(P_.pelo)], ['ROPA', 'ct', nm(P_.ropa)], ['PANTALÓN', 'cp', nm(P_.pant)]);
       if (ork) opts.push(['CLASE', 'cls', A.OCLS, fixed]);
       if (avSkins.length) { opts.unshift(['ESPECIAL', 'npcI', ['Ninguno'].concat(avSkins.map(k => sknName(k)))]); avLook.npcI = avLook.npc ? avSkins.indexOf(avLook.npc) + 1 : 0; }
       opts.forEach(([lab, k, L, lock]) => { const r = document.createElement('div'); r.className = 'avopt'; r.innerHTML = '<span>' + lab + '</span><button type="button" aria-label="anterior">‹</button><b></b><button type="button" aria-label="siguiente">›</button>';
         const b = r.querySelector('b'); b.textContent = L[avLook[k] || 0] || L[0];
+        if (P_ && ['cs', 'ch', 'ct', 'cp'].includes(k)) { const pal = { cs: P_.piel, ch: P_.pelo, ct: P_.ropa, cp: P_.pant }[k]; b.style.borderLeft = '14px solid ' + (pal[avLook[k] || 0] || pal[0])[1]; b.style.paddingLeft = '6px'; }
         if (lock) { r.children[1].disabled = r.children[3].disabled = true; r.children[1].style.opacity = r.children[3].style.opacity = .25; b.textContent += ' · fija'; }
         const mv = dv => { avLook[k] = ((avLook[k] || 0) + dv + L.length) % L.length;
           if (k === 'npcI') { if (avLook.npcI) avLook.npc = avSkins[avLook.npcI - 1]; else delete avLook.npc; }
-          if (k === 'body') { delete avLook.pj; delete avLook.model; }
+          if (k === 'body') { delete avLook.pj; delete avLook.model; delete avLook.cu; }
           if (k === 'pjI') { H.pickPj(avLook, list[avLook.pjI]); if (list[avLook.pjI].cls == null && fixed) avLook.cls = 0; }
           build(); drawAv(); };
         r.children[1].onclick = () => mv(-1); r.children[3].onclick = () => mv(1); box.appendChild(r); });
